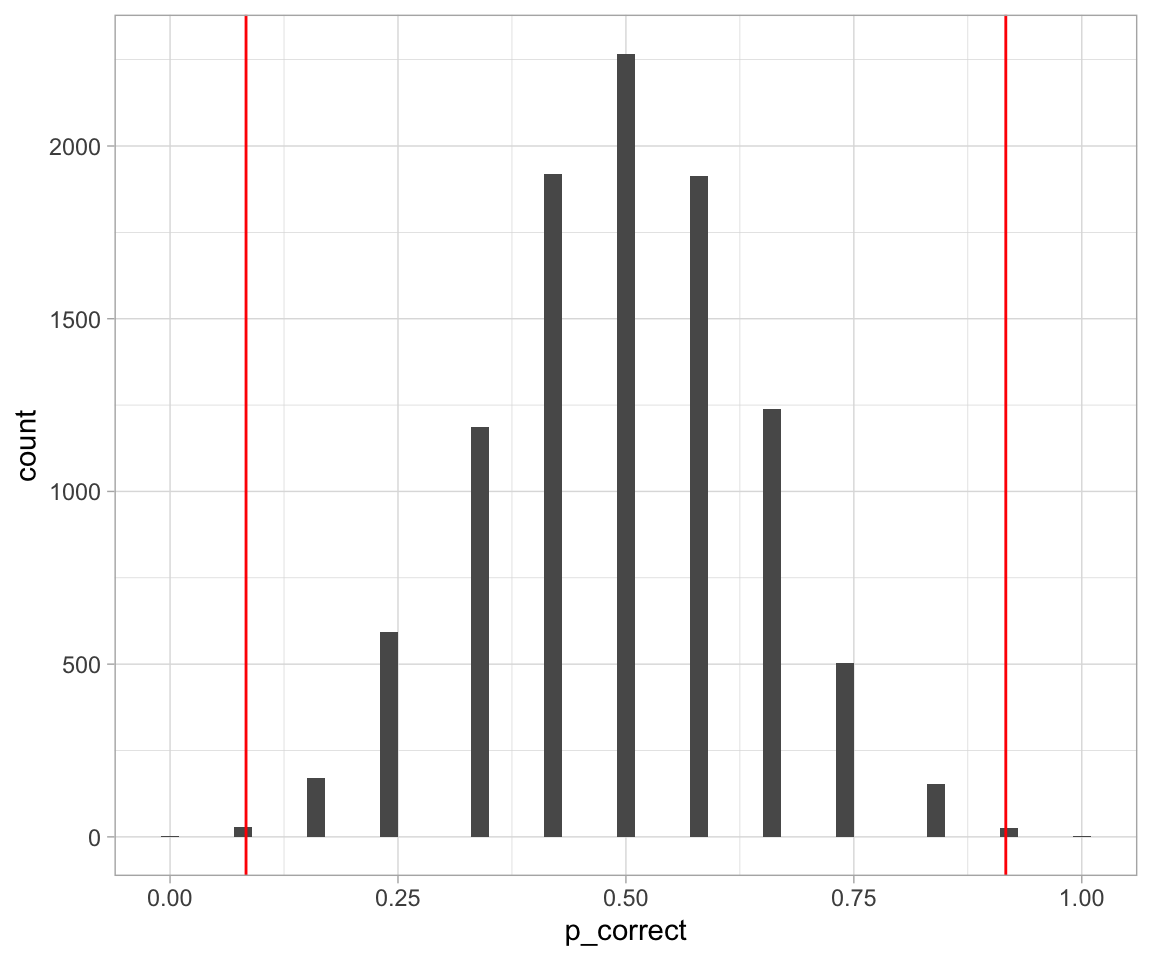
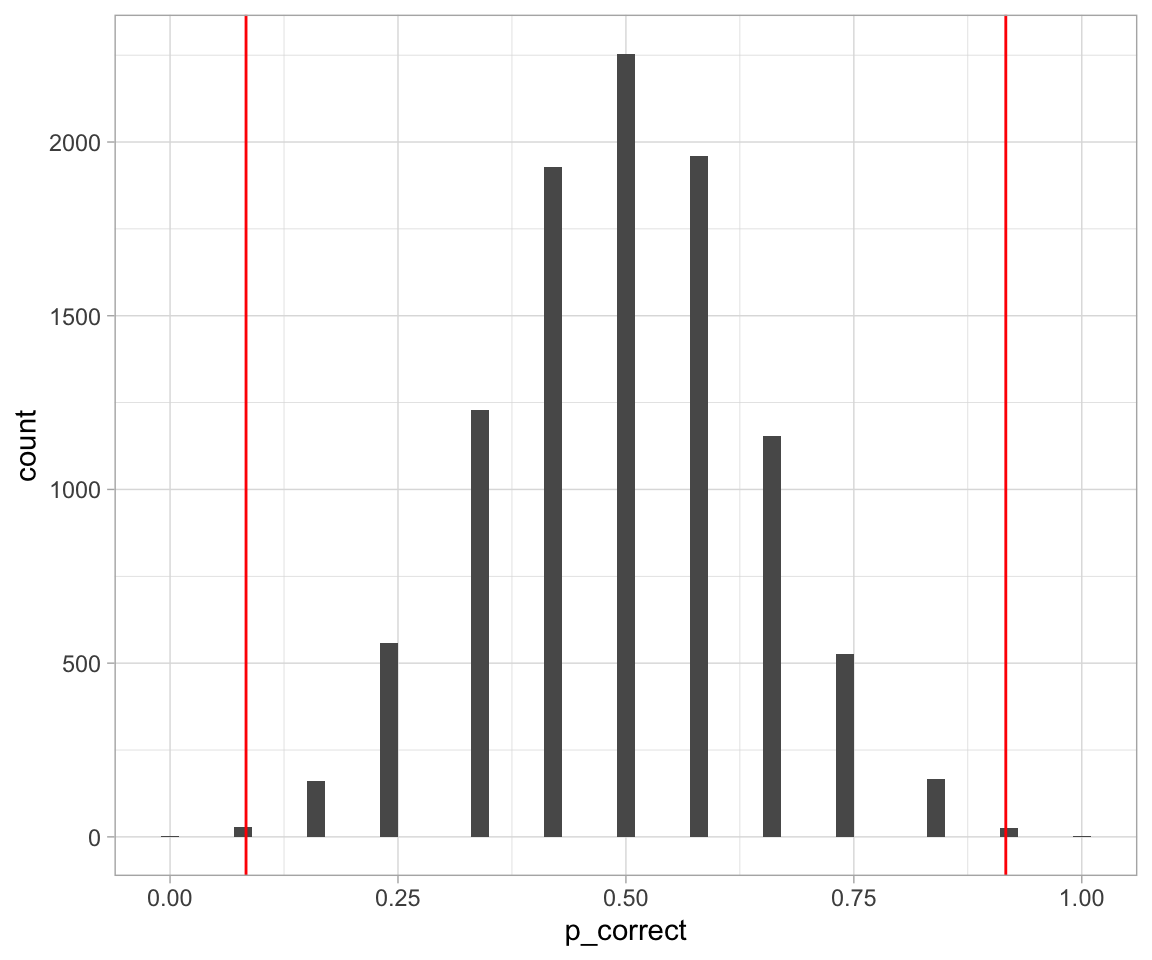
Updated STA130

diff --git a/STA130F19.html b/STA130F19.html
@@ -1004,7 +1004,7 @@ run_simulation(10000)</code></pre>
 ## # A tibble: 1 x 1
 ##   p_value
 ##     &lt;dbl&gt;
-## 1  0.0639</code></pre>
+## 1  0.0627</code></pre>
 <pre class="r"><code>run_simulation(10)</code></pre>
 <pre><code>## [[1]]</code></pre>
 <p><img src="STA130F19_files/figure-html/Q1%20Experiment-2.png" width="576" /></p>
@@ -1053,7 +1053,7 @@ ggplot(sim, aes(p_correct)) +
 <pre><code>## # A tibble: 1 x 1
 ##   p_value
 ##     &lt;dbl&gt;
-## 1  0.0061</code></pre>
+## 1  0.0059</code></pre>
 <p><strong>QUESTION</strong> A local newspaper has asked you to provide a brief summary of the research you did on this Scottish woman’s amazing abilities (Question 2b)! Remember to include a sentence to state the purpose of your research, a brief explanation of your methods, your key findings, and a concluding sentence that their average reader will understand. You may also want to mention some of the limitations of your research – how confident can we be in these findings? <strong>SUBMIT ON QUERCUS</strong></p>
 </div>
 <div id="additional-resources-for-coding" class="section level2">
@@ -1107,6 +1107,105 @@ datasaurus_dozen %&gt;%
     theme(legend.position = &quot;none&quot;) +
     facet_wrap( ~ dataset, ncol = 4)</code></pre>
 <p><img src="STA130F19_files/figure-html/Datasaurus%20plots-1.png" width="576" /></p>
+</div>
+</div>
+<div id="tutorial-5" class="section level1">
+<h1>Tutorial 5</h1>
+<div id="agenda-1" class="section level2">
+<h2>Agenda:</h2>
+<ul>
+<li><p>Vocab</p></li>
+<li><p>Presentation Skills</p></li>
+<li><p>Group Discussion</p></li>
+<li><p>Group Presentations</p></li>
+<li><p>Ticket Out the Door</p></li>
+</ul>
+</div>
+<div id="vocab-1" class="section level2">
+<h2>Vocab</h2>
+<ul>
+<li><p>Type I error</p></li>
+<li><p>Type II error</p></li>
+<li><p>Two Sample test</p></li>
+<li><p>One Sample test</p></li>
+<li><p>Approximate Permutation test</p></li>
+</ul>
+<p>Great resource (With LLAMAS!) <a href="https://www.jwilber.me/permutationtest/">here</a></p>
+<p>Real-world example: Somebody is being convicted of murder.</p>
+<p><span class="math inline">\(H_0\)</span> ? <span class="math inline">\(H_a\)</span> ? Type I error? Type II error?</p>
+</div>
+<div id="presentation-skills" class="section level2">
+<h2>Presentation Skills</h2>
+<p>Group Discussion : What makes a good oral presentation?</p>
+<div id="content" class="section level3">
+<h3>Content</h3>
+<ul>
+<li><p>What is the main message you want to get across?</p></li>
+<li><p>Define terms early</p></li>
+<li><p>Make clear transitions between parts of your presentation</p></li>
+<li><p>Make your data/ figures meaningful</p></li>
+<li><p>Summarize</p></li>
+<li><p>Create an (organized) outline of your presentation</p></li>
+</ul>
+</div>
+<div id="delivery" class="section level3">
+<h3>Delivery</h3>
+<ul>
+<li><p>Be confident, make eye contact and avoid reading</p></li>
+<li><p>Avoid filler words – “ummm”, “like”, “you know”</p></li>
+<li><p>Speak slowly and it’s ok to pause (and breathe!)</p></li>
+<li><p>Remember to enunciate all the parts of each word</p></li>
+<li><p>Practice!</p></li>
+</ul>
+</div>
+<div id="useful-phrases" class="section level3">
+<h3>Useful Phrases:</h3>
+<p><strong>Providing an outline of your presentation:</strong></p>
+<p>“I’d like to give you a brief outline of my presentation…”;</p>
+<p>“Here is the agenda for the meeting…”;</p>
+<p>“My presentation consists of the following parts…”;</p>
+<p>“The presentation is divided into four main sections…”</p>
+<p><strong>Making clear transitions:</strong></p>
+<p>“I’d like to move on to another part of the presentation…”;</p>
+<p>“Now I’d like to look at…”; “For instance…”; “In addition…”; “Moreover…”; “This leads me to the next point…”</p>
+<p><strong>Summarizing:</strong></p>
+<p>“Let’s summarize briefly what we’ve looked at…”; “In conclusion…”; “I’d like to recap…”; “I’d like to sum up the main points…”</p>
+</div>
+</div>
+<div id="group-presentations" class="section level2">
+<h2>Group Presentations</h2>
+<p>Prepare a 5-minute presentation summarizing the one of the following research findings.</p>
+<p><strong>Submit your outline on QUERCUS</strong></p>
+<p>Your oral presentation, like a written summary, should include the following components:</p>
+<ol style="list-style-type: decimal">
+<li><p>Contextualize the problem</p></li>
+<li><p>Summarize the methods. E.g. State hypotheses; define the test statistic; etc.</p></li>
+<li><p>Summarize your findings</p></li>
+<li><p>Conclusion</p></li>
+<li><p>Limitations (optional, but good practice)</p></li>
+</ol>
+<div id="scenarios" class="section level3">
+<h3>Scenarios</h3>
+<ol style="list-style-type: lower-alpha">
+<li><p>A health survey asked 200 individuals aged 20-45 living in Toronto to report the number minutes they exercised last week. Researchers were interested in determining whether the average duration of exercise differed between people who consume alcohol and those who do not consume alcohol. Assume the researchers who conducted this study found that people who drank alcohol exercised, on average, 20 minutes per week. In contrast, people who did not drink alcohol exercised 40 minutes per week, on average. The researchers reported a p-value of 0.249.</p></li>
+<li><p>A study was conducted to examine whether the sex of a baby is related to whether or not the baby’s mother smoked while she was pregnant. The researchers used a birth registry of all children born in Ontario in 2018, which included approximately 130,000 births. The researchers found that 4% of mothers reported smoking during pregnancy and 52% of babies born to mothers who smoked were male. In contrast, 51% of babies born to mothers who did not smoke were male. The researchers reported a p-value of 0.50.</p></li>
+<li><p>Based on results from a survey of graduates from the University of Toronto, we would like to compare the median salaries of graduates of statistics programs and graduates of computer science programs. 1,000 recent graduates who completed their Bachelor’s degree in the last five years were included in the study; 80% of the respondents were female and 20% were male. Among statistics graduates, the median reported income was $76,000. Among computer science graduates, the median reported income was $84,000. The researchers reported a p-value of 0.014.</p></li>
+<li><p>A team of researchers were interested in understanding millennial’s views regarding housing affordability in Toronto. The team interviewed 850 millennials currently living in Toronto. 84% reported that they felt housing prices were unaffordable in the city. Suppose the researchers were interested in testing whether this proportion was different from a study published last year, which found that 92% of millennials reported that housing costs were unaffordable. The researchers reported a p-value of 0.023.</p></li>
+<li><p>Suppose a drug company was interested in testing a new weight-loss drug. They enrolled 20,000 participants and assigned 10,000 to take their new drug, SlimX, and 10,000 to take a placebo. The researchers found that over 2 months, participants who took SlimX lost, on average, 5 lbs. In comparison, the control group lost 4.5 lbs during the same time. The researchers reported a p-value of <span class="math inline">\(&lt;0.0001\)</span>.</p></li>
+</ol>
+</div>
+<div id="peer-reviewers" class="section level3">
+<h3>Peer Reviewers</h3>
+<ul>
+<li><p>Will change every week</p></li>
+<li><p>Have to write a question for the presenters</p></li>
+<li><p>Fill out the peer review forms confidentially</p></li>
+</ul>
+</div>
+</div>
+<div id="ticket-out-the-door" class="section level2">
+<h2>Ticket out the door</h2>
+<p>Everyone grabs a piece of paper, HAVE TO WRITE A QUESTION about the course materials.</p>
 </div>
 </div>
 
